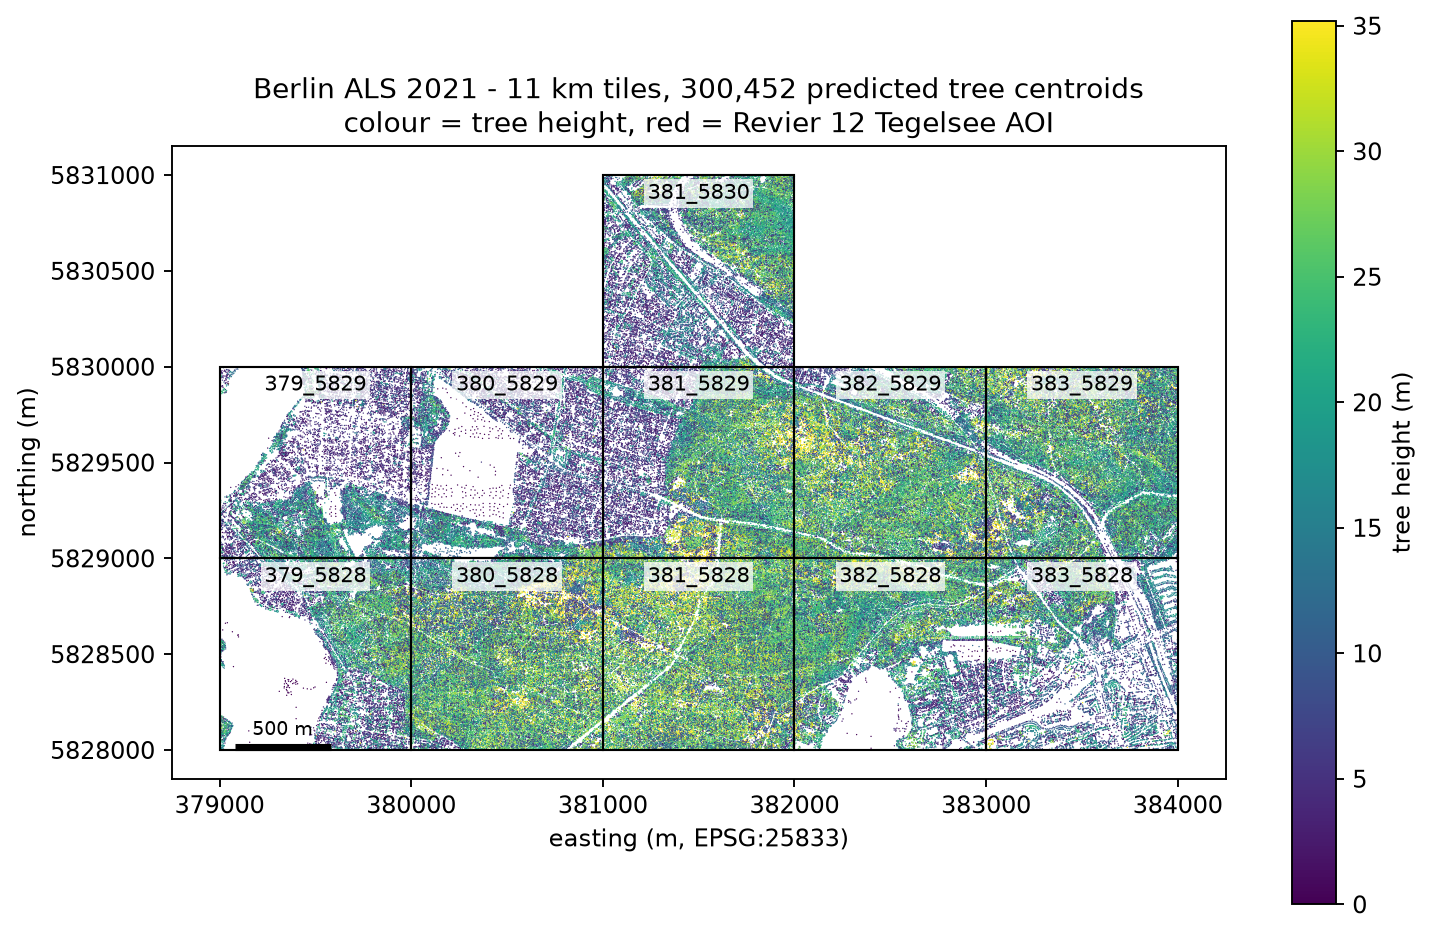
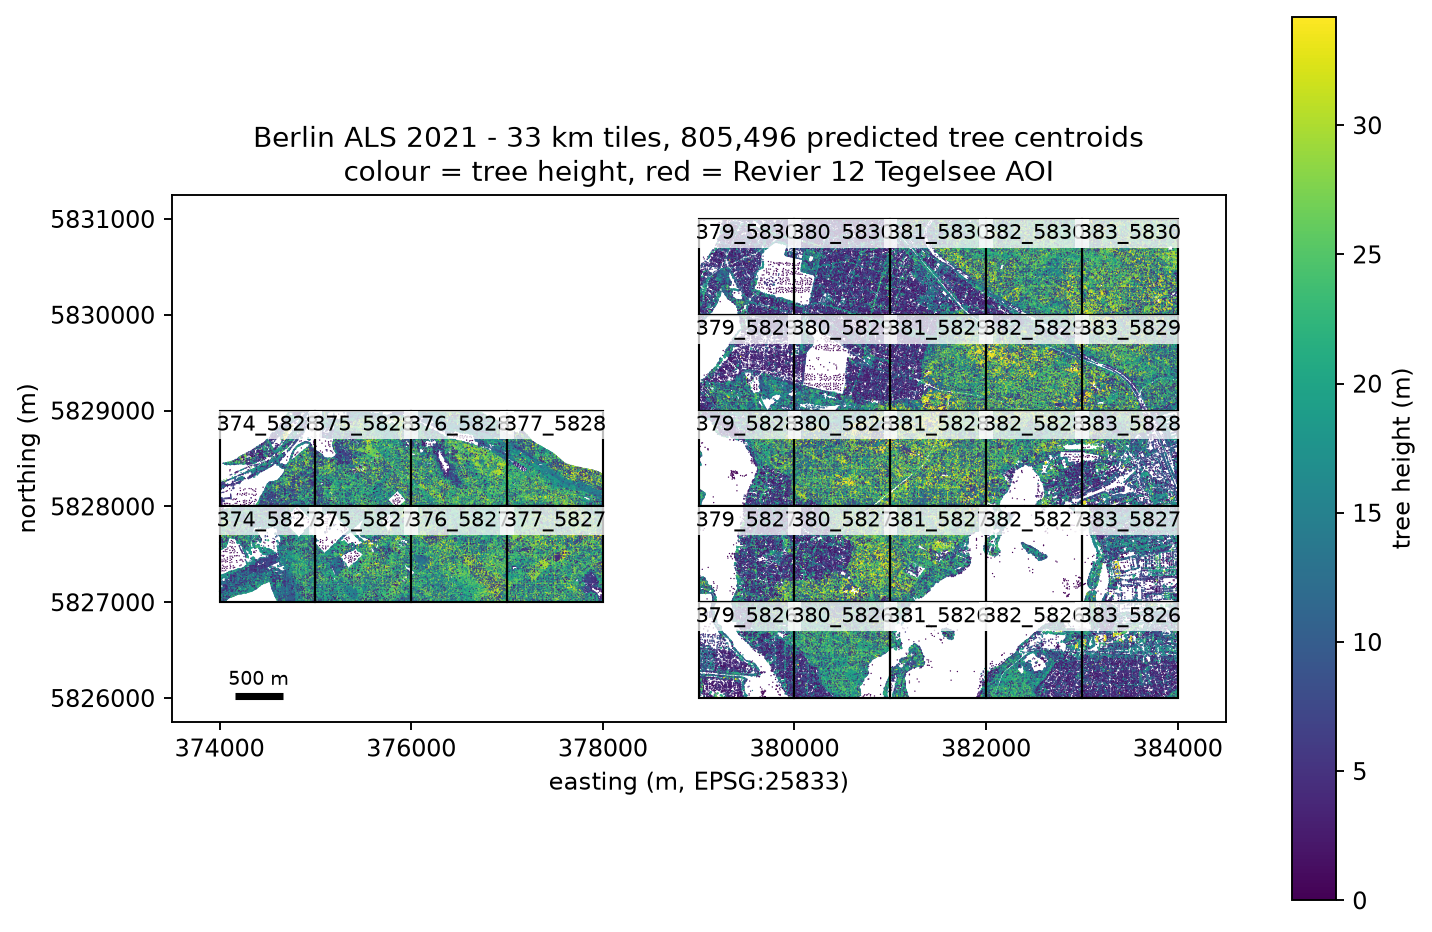
docs: Revier 12 completion, fourteen more km tiles
Fourteen Berlin ALS 2021 km tiles through the ForestFormer3D pipeline, closing
E 379-383 km x N 5826-5830 km into a complete 5x5 km square: 203.9 M points,
1,285 sub-tiles, 271,186 trees in 10.6 GPU-hours on carrot.

Section 8 of the Tegel benchmark holds the per-tile table, the GPU assignment,
the two spconv 'points vanished' failures and how they were recovered (one
100 m sub-tile skipped per affected tile), and the reading of the numbers:
13 of 14 tiles still fail the first-pass rule on median height alone.

Both figure scripts now discover their tile set from the result directories
instead of a hard-coded eleven-tile list, and the DOP overlay falls back to the
4-band RGBI rendering where the 3-band RGB tile was never fetched. The two
overview figures are regenerated over all 33 tiles with results.

diff --git a/benchmark/plot_berlin_dop_overlays.py b/benchmark/plot_berlin_dop_overlays.py
@@ -6,7 +6,7 @@ Produces four figures into ``docs/benchmarks/assets/berlin-dop``:
   a) berlin-dop-381-5829-crowns.png   full 1 km tile, crowns coloured by height
   b) berlin-dop-381-5829-zoom.png     150 m zoom, DOP + ALS instance raster
   c) berlin-dop-381-5829-drone2025.png same 150 m window on the 2025 drone ortho
-  d) berlin-dop-mosaic-density.png    eleven-tile mosaic + crown centroid density
+  d) berlin-dop-mosaic-density.png    mosaic of every tile with results + crown density
 
 Run with the repo's CPU venv::
 
@@ -17,6 +17,7 @@ from __future__ import annotations
 
 import argparse
 import os
+import re
 
 import matplotlib
 matplotlib.use("Agg")
@@ -30,7 +31,14 @@ from PIL import Image
 from rasterio.enums import Resampling
 from rasterio.windows import from_bounds
 
-DOP_DIR = "/Volumes/2TB/winmol/ALS_Data/berlin_dop_2021/dop_2021_rgb"
+# DOP 2021 tiles. The 3-band RGB rendering is preferred; the 4-band RGBI stack of the
+# same service is the fallback, since `read_rgb` only ever reads bands 1-3 and the later
+# production blocks were fetched as RGBI only.
+DOP_DIRS = [
+    "/Volumes/2TB/winmol/ALS_Data/berlin_dop_2021/dop_2021_rgb",
+    "/Volumes/2TB/winmol/ALS_Data/berlin_dop_2021/dop_2021_rgbi",
+]
+DOP_DIR = DOP_DIRS[0]
 ALS_DIRS = [
     "/Users/christian/work/hnee/ForestFormer3D_runs/berlin_out/berlin-2021",
     "/Volumes/2TB/winmol/ALS_Data/berlin_als_2021_ff3d",
@@ -40,14 +48,47 @@ DRONE = ("/Volumes/2TB/winmol/training_data/WINDWURF_Tegel/Revier_12/"
 OUT_DIR = os.path.join(os.path.dirname(os.path.dirname(os.path.abspath(__file__))),
                        "docs", "benchmarks", "assets", "berlin-dop")
 
-TILES = ["379_5828", "379_5829", "380_5828", "380_5829", "381_5828",
-         "381_5829", "381_5830", "382_5828", "382_5829", "383_5828", "383_5829"]
+# The original eleven-tile benchmark set. It is only a fallback: `discover_tiles()`
+# below returns every km tile that actually has ForestFormer3D results under one of
+# `ALS_DIRS`, so a new production block is picked up without editing this list.
+BENCHMARK_TILES = ["379_5828", "379_5829", "380_5828", "380_5829", "381_5828",
+                   "381_5829", "381_5830", "382_5828", "382_5829", "383_5828",
+                   "383_5829"]
 MAIN = "381_5829"
 ZOOM_SIZE = 150.0
+
+TILE_RE = re.compile(r"^3dm_33_(\d+_\d+)_1_be$")
 
 
 def tname(t: str) -> str:
     return f"3dm_33_{t}_1_be"
+
+
+def discover_tiles():
+    """Every km tile with a merged tree table in one of ALS_DIRS, sorted by E then N."""
+    found = set()
+    for root in ALS_DIRS:
+        if not os.path.isdir(root):
+            continue
+        for entry in os.listdir(root):
+            m = TILE_RE.match(entry)
+            if m and os.path.exists(os.path.join(root, entry, f"{entry}_trees.gpkg")):
+                found.add(m.group(1))
+    if not found:
+        found = set(BENCHMARK_TILES)
+    return sorted(found, key=lambda t: (int(t.split("_")[0]), int(t.split("_")[1])))
+
+
+TILES = discover_tiles()
+
+
+def dop_path(t: str):
+    """The DOP 2021 GeoTIFF for a tile key, RGB first then RGBI, or None."""
+    for root in DOP_DIRS:
+        p = os.path.join(root, tname(t) + ".tif")
+        if os.path.exists(p):
+            return p
+    return None
 
 
 def tile_bounds(t: str):
@@ -156,7 +197,7 @@ def pick_zoom(tile):
 
 
 def fig_a(zoom_bounds):
-    path = os.path.join(DOP_DIR, tname(MAIN) + ".tif")
+    path = dop_path(MAIN)
     img, ext = read_rgb(path, max_px=2200)
     g = load_crowns(MAIN)
     segs = crown_lines(g)
@@ -182,7 +223,7 @@ def fig_a(zoom_bounds):
 
 
 def fig_b(zoom_bounds):
-    img, ext = read_rgb(os.path.join(DOP_DIR, tname(MAIN) + ".tif"),
+    img, ext = read_rgb(dop_path(MAIN),
                         bounds=zoom_bounds, max_px=1600)
     g = load_crowns(MAIN, bounds=zoom_bounds)
     segs = crown_lines(g)
@@ -223,7 +264,7 @@ def fig_c(zoom_bounds):
     x1, y1 = tr.transform(zoom_bounds[2], zoom_bounds[3])
     db = (x0, y0, x1, y1)
     dimg, dext = read_rgb(DRONE, bounds=db, max_px=1600)
-    img21, ext21 = read_rgb(os.path.join(DOP_DIR, tname(MAIN) + ".tif"),
+    img21, ext21 = read_rgb(dop_path(MAIN),
                             bounds=zoom_bounds, max_px=1600)
     segs21 = crown_lines(load_crowns(MAIN, bounds=zoom_bounds))
     segs = crown_lines(g)
@@ -245,7 +286,7 @@ def fig_c(zoom_bounds):
 def fig_d():
     import geopandas as gpd
     present = [t for t in TILES
-               if os.path.exists(os.path.join(DOP_DIR, tname(t) + ".tif"))]
+               if dop_path(t)]
     es = sorted({int(t.split("_")[0]) for t in present})
     ns = sorted({int(t.split("_")[1]) for t in present}, reverse=True)
     cell = 420
@@ -256,7 +297,7 @@ def fig_d():
     for t in present:
         e, n = int(t.split("_")[0]), int(t.split("_")[1])
         r, c = ns.index(n), es.index(e)
-        img, _ = read_rgb(os.path.join(DOP_DIR, tname(t) + ".tif"), max_px=cell)
+        img, _ = read_rgb(dop_path(t), max_px=cell)
         mosaic[r * cell:(r + 1) * cell, c * cell:(c + 1) * cell] = img[:cell, :cell]
         if als_path(t, "trees.gpkg"):
             have_trees.append(t)
@@ -269,7 +310,7 @@ def fig_d():
     ext = (minx, maxx, miny, maxy)
     fig, ax = plt.subplots(1, 2, figsize=(13, 6.4), constrained_layout=True)
     ax[0].imshow(mosaic, extent=ext)
-    ax[0].set_title(f"DOP20 RGB 2021 mosaic — {len(present)} km tiles\n(grey = no tile in the benchmark set)", fontsize=11)
+    ax[0].set_title(f"DOP20 RGB 2021 mosaic — {len(present)} km tiles\n(grey = no ForestFormer3D result for that km square)", fontsize=11)
     ax[1].imshow(mosaic, extent=ext, alpha=0.55)
     if xs.size:
         nb = (int((maxx - minx) // 50), int((maxy - miny) // 50))

diff --git a/docs/benchmarks/2026-09-22-tegel-berlin-2021.md b/docs/benchmarks/2026-09-22-tegel-berlin-2021.md
@@ -393,3 +393,150 @@ and so dropped the descriptions `results_to_las` gives them, which laspy compare
 fixed in `11d850b`, with the test fixture corrected to carry the descriptions. The three
 merges above were produced with that fixed code. On a checkout at `11d850b` or later the
 runbook's loop runs end to end unchanged.
+
+## 8. Revier 12 completion — fourteen more km tiles
+
+Date: 2026-09-23 (run 15:50–19:00 CEST). Machine: carrot, six H100s shared with two other
+blocks (the Revier 13 km tiles and a SegmentAnyTree queue), image `forestformer3d:cu118`,
+checkpoint `work_dirs/clean_forestformer/epoch_3000_fix.pth`. Launched with the tracked
+`benchmark/berlin_run_gpu.sh`, one queue per GPU, logs
+`work_dirs/logs/berlin-r12b-gpu<N>-<ts>.log`.
+
+This closes the Revier 12 / Tegelsee block: with the eleven tiles of sections 1–7 and the
+earlier visual report, **E 379–383 km × N 5826–5830 km is now a complete 5 × 5 km
+square** — 25 km tiles, all inferred with the same checkpoint. Counting the Revier 13
+block to the west, 33 km tiles and 805,496 predicted trees are on disk.
+
+Inputs: the eight tiles not yet held locally (`379_5830 380_5830 382_5826 382_5827
+382_5830 383_5826 383_5827 383_5830`) were pulled from the INSPIRE ATOM feed with
+`benchmark/fetch_berlin_als.py`; all eight were present in the feed (`8 downloaded,
+0 not in any package, 0 failed`), so no tile of the fourteen had to be skipped. Matching
+DOP 2021 (leaf-off) and TrueDOP 2025 summer (leaf-on) RGBI orthophotos were fetched for
+all fourteen with `benchmark/fetch_berlin_dop.py` (14 written, 0 failed, per service).
+
+### Per tile
+
+"Sub-tiles run" is merged / produced by `ff3d_geo split`; the two tiles where these differ
+lost one 100 m sub-tile each to the spconv failure described below. "Wall time" is the
+`run` step's own wall time (`tile done (run Ns)`), measured under four to six concurrent
+GPU queues, not on an idle box.
+
+| Tile | Points | Sub-tiles run | Trees (model) | CHM baseline | Median height (m) | CHM median (m) | Ground/veg agreement | First pass usable | Wall time |
+|---|---:|---:|---:|---:|---:|---:|---:|:--:|---:|
+| `3dm_33_379_5826_1_be` | 12,502,375 | 96 / 97 | 15,280 | 20,032 | 12.0 | 15.9 | 91.1 % | no | 67 min |
+| `3dm_33_379_5827_1_be` | 10,923,097 | 84 / 84 | 13,766 | 18,095 | 9.2 | 16.2 | 92.2 % | no | 48 min |
+| `3dm_33_379_5830_1_be` | 13,030,051 | 96 / 96 | 12,980 | 16,400 | 7.9 | 10.1 | 88.2 % | yes | 37 min |
+| `3dm_33_380_5826_1_be` | 19,727,639 | 100 / 100 | 30,381 | 35,691 | 20.8 | 24.4 | 96.3 % | no | 53 min |
+| `3dm_33_380_5827_1_be` | 20,132,071 | 100 / 100 | 28,715 | 36,341 | 18.7 | 27.4 | 95.3 % | no | 51 min |
+| `3dm_33_380_5830_1_be` | 15,132,813 | 100 / 100 | 18,809 | 23,041 | 6.8 | 10.1 | 89.7 % | no | 43 min |
+| `3dm_33_381_5826_1_be` | 4,614,067 | 65 / 65 | 5,165 | 6,895 | 16.4 | 21.0 | 94.0 % | no | 17 min |
+| `3dm_33_381_5827_1_be` | 16,625,079 | 85 / 85 | 23,351 | 29,300 | 22.1 | 27.0 | 96.4 % | no | 44 min |
+| `3dm_33_382_5826_1_be` | 10,426,218 | 78 / 78 | 13,854 | 18,057 | 15.9 | 19.2 | 92.8 % | no | 33 min |
+| `3dm_33_382_5827_1_be` | 3,596,432 | 81 / 82 | 2,394 | 3,337 | 15.6 | 19.4 | 95.7 % | no | 29 min |
+| `3dm_33_382_5830_1_be` | 24,380,202 | 100 / 100 | 39,637 | 37,269 | 22.6 | 26.1 | 98.0 % | no | 60 min |
+| `3dm_33_383_5826_1_be` | 14,548,444 | 100 / 100 | 16,768 | 24,493 | 9.0 | 12.8 | 89.6 % | no | 43 min |
+| `3dm_33_383_5827_1_be` | 11,464,133 | 100 / 100 | 12,628 | 24,290 | 12.2 | 15.3 | 87.5 % | no | 39 min |
+| `3dm_33_383_5830_1_be` | 26,764,131 | 100 / 100 | 37,458 | 39,737 | 23.5 | 28.5 | 98.1 % | no | 68 min |
+
+Totals: **203.9 M points, 1,285 sub-tiles, 271,186 predicted trees** against a CHM
+local-maxima baseline of 332,978, in **10.6 GPU-hours** — 29.7 s per 100 m sub-tile
+averaged over the whole block. That is the vectorised path (commits `3da7f87`, `efb3fcf`)
+under four- to six-way contention; the pre-vectorisation runs of section 4 needed 55–60 s
+per sub-tile on an *uncontended* card.
+
+GPU assignment (one queue per GPU, sequential within a queue):
+
+| GPU | Tiles | Note |
+|---|---|---|
+| 0 | 379_5826, 379_5827, 380_5826 | overlapped one Revier 13 tile at launch (see below) |
+| 2 | 380_5827, 381_5826, 381_5827 | |
+| 4 | 383_5827, 383_5830 | |
+| 5 | 382_5827, 382_5830, 383_5826 | |
+| 6 | 379_5830, 380_5830, 382_5826 | |
+| 3 / 2 | 379_5826, 382_5827 (recovery) | re-run after the spconv failure |
+
+### What failed, and the fix
+
+Two tiles died in the batch `run`: `3dm_33_379_5826_1_be` and `3dm_33_382_5827_1_be`, both
+with spconv's
+
+```
+ValueError: Your points vanished here, ...
+    Your Conv Params: spatial_shape=[17, 16, 16] ksize=[2,2,2] stride=[2,2,2] padding=[0,0,0]
+```
+
+raised inside `SpConvUNet` on one cylinder of one 100 m sub-tile whose points occupy too
+small a voxel extent for the UNet's stride-2 downsampling. It is a property of the data,
+not of the run: the same sub-tile fails again on a re-run. Because `ff3d_geo run` issues a
+single `tools/test.py` for the whole km tile, one bad sub-tile kills the entire batch —
+`379_5826` lost 62 of 97 sub-tiles that way, and the subsequent `merge` then failed with
+no `*_100m.las` to merge.
+
+Recovery: `work_dirs/logs/r12b-recover.sh <gpu> <tile>` (untracked, on carrot) re-runs a
+tile in chunks of 20 sub-tiles into the same `--out`, so one bad sub-tile costs one chunk;
+on a chunk failure it records the first sub-tile of that chunk without a result PLY in
+`<out>/skip_list.txt` and carries on, then merges and writes the masks. Exactly one
+sub-tile was skipped per tile:
+
+| Tile | Skipped sub-tile | Cost |
+|---|---|---|
+| `3dm_33_379_5826_1_be` | `3dm_33_379_5826_E379300_N5826700_100m` | 96 of 97 sub-tiles merged |
+| `3dm_33_382_5827_1_be` | `3dm_33_382_5827_E382700_N5827100_100m` | 81 of 82 sub-tiles merged |
+
+So each of those two tiles has one 100 m hole (1 % of its area) in the merged LAS, tree
+table, crowns and masks. Worth fixing at the source — chunking the batch inside
+`ff3d_geo run`, or guarding the degenerate cylinder in `_predict_full_plot` — before the
+next production block; it is the only failure mode seen in 25 Revier 12 km tiles.
+
+One process-level slip: the queue on GPU 0 was launched while the Revier 13 block's own
+GPU-0 queue was between tiles, so `nvidia-smi` showed the card idle although a queue still
+owned it, and the two shared GPU 0 for one tile. Checking `nvidia-smi` is not enough —
+check that no `berlin_run_gpu.sh <gpu>` (or other runner) still lists that GPU.
+
+### Reading the numbers
+
+The verdict of section 6 does not change: **13 of the 14 tiles fail the first-pass rule**,
+and again only on the median-height criterion. The tree count stays inside the ±50 % band
+everywhere (`382_5830` is the first tile in the whole block to come out *above* baseline,
++6 %); the median predicted height sits 2.2 to 8.7 m below the CHM median on every tile.
+
+The one tile that passes, `3dm_33_379_5830_1_be`, does so because it is a low-canopy tile:
+the CHM median there is only 10.1 m, so the usual shift of a few metres fits inside the
+3 m band. `380_5830` (CHM median 10.1 m as well) misses it by 3.3 m. Neither is a sign
+that the model does better on those tiles — it is the decision rule's absolute 3 m
+threshold meeting a short canopy.
+
+Ground/vegetation agreement spans 87.5–98.1 % and tracks canopy cover: the dense
+closed-forest tiles (`382_5830`, `383_5830`, `381_5827`) sit at 96–98 %, the water- and
+built-up-heavy ones (`383_5827`, `379_5830`, `383_5826`) at 87–90 %. The semantic head
+keeps transferring to ALS; the instance head is still the part that needs ALS fine-tuning.
+
+### Products
+
+`/Volumes/2TB/winmol/ALS_Data/berlin_als_2021_ff3d/<tile>/` per km tile — `<T>.las`,
+`<T>_trees.gpkg`, `<T>_crowns.gpkg`, `<T>_instance_50cm.tif`, `<T>_semantic_50cm.tif`,
+`<T>_report.json`, `<T>_report.md`. Orthophotos:
+`berlin_dop_2021/dop_2021_rgbi/<tile>.tif` and `berlin_dop_2025_sommer/<tile>.tif`.
+Regenerated overview figures covering every tile with results:
+`assets/berlin-visual/08-tiles-overview.png` and
+`assets/berlin-dop/berlin-dop-mosaic-density.png` (33 tiles, 805,496 crowns). Both figure
+scripts now discover the tile set from the result directories instead of a hard-coded
+eleven-tile list.
+
+```bash
+# carrot: one queue per idle GPU, three tiles each
+bash benchmark/berlin_run_gpu.sh 6 3dm_33_379_5830_1_be 3dm_33_380_5830_1_be 3dm_33_382_5826_1_be
+
+# Mac: inputs and orthophotos
+.venv-cpu/bin/python benchmark/fetch_berlin_als.py --tiles 382_5830 383_5830 \
+    --out-dir /Volumes/2TB/winmol/ALS_Data/berlin_als_2021
+.venv-cpu/bin/python benchmark/fetch_berlin_dop.py --rgbi --tiles 382_5830 383_5830 \
+    --out-dir /Volumes/2TB/winmol/ALS_Data/berlin_dop_2021/dop_2021_rgbi
+
+# Mac: figures
+.venv-cpu/bin/python benchmark/plot_berlin_visuals.py --tile 3dm_33_381_5829_1_be \
+    --data-dir /Volumes/2TB/winmol/ALS_Data/berlin_als_2021_ff3d \
+    --data-dir ~/work/hnee/ForestFormer3D_runs/berlin_out/berlin-2021 \
+    --out-dir docs/benchmarks/assets/berlin-visual --only 8
+.venv-cpu/bin/python benchmark/plot_berlin_dop_overlays.py --only d
+```
